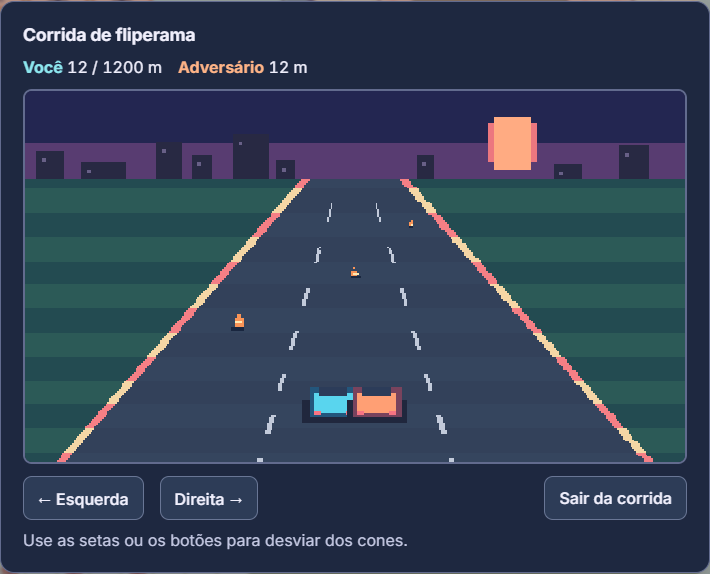
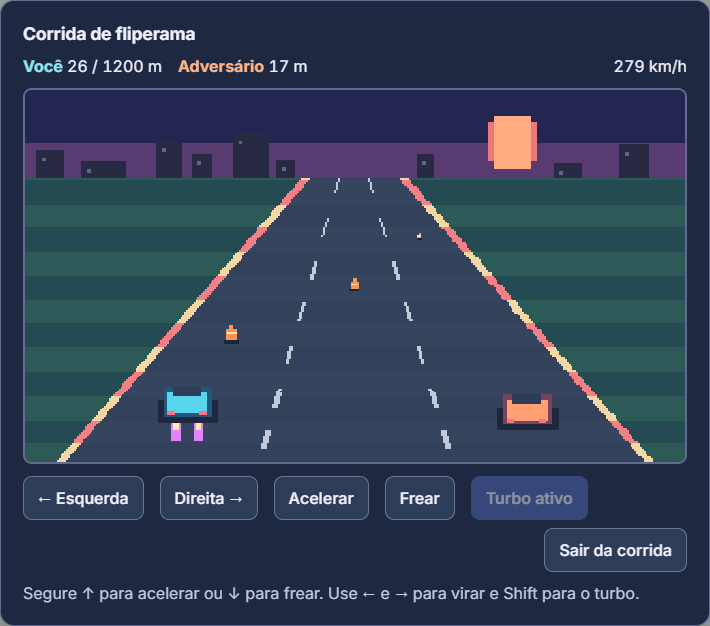
Atualiza print da corrida com turbo ativo (#54)

diff --git a/README.md b/README.md
@@ -32,7 +32,7 @@ Coworking virtual em pixel art 2D com voz e vídeo por proximidade, mapas person
 
 | Aquário durante a alimentação | Corrida com dois jogadores |
 | --- | --- |
-| ![Arraia e polvo perto dos grãos enquanto o aquário mostra Alimentando](docs/prints/aquario-alimentacao.png) | ![Carros azul e laranja lado a lado na pista, com a distância de cada jogador no placar](docs/prints/corrida-fliperama.png) |
+| ![Arraia e polvo perto dos grãos enquanto o aquário mostra Alimentando](docs/prints/aquario-alimentacao.png) | ![Corrida 1x1 com os carros azul e laranja na pista, botões Acelerar e Frear e turbo ativo no carro azul](docs/prints/corrida-fliperama.png) |
 
 [Como jogar 1x1 nos fliperamas](#corrida-1x1-nos-fliperamas)
 
